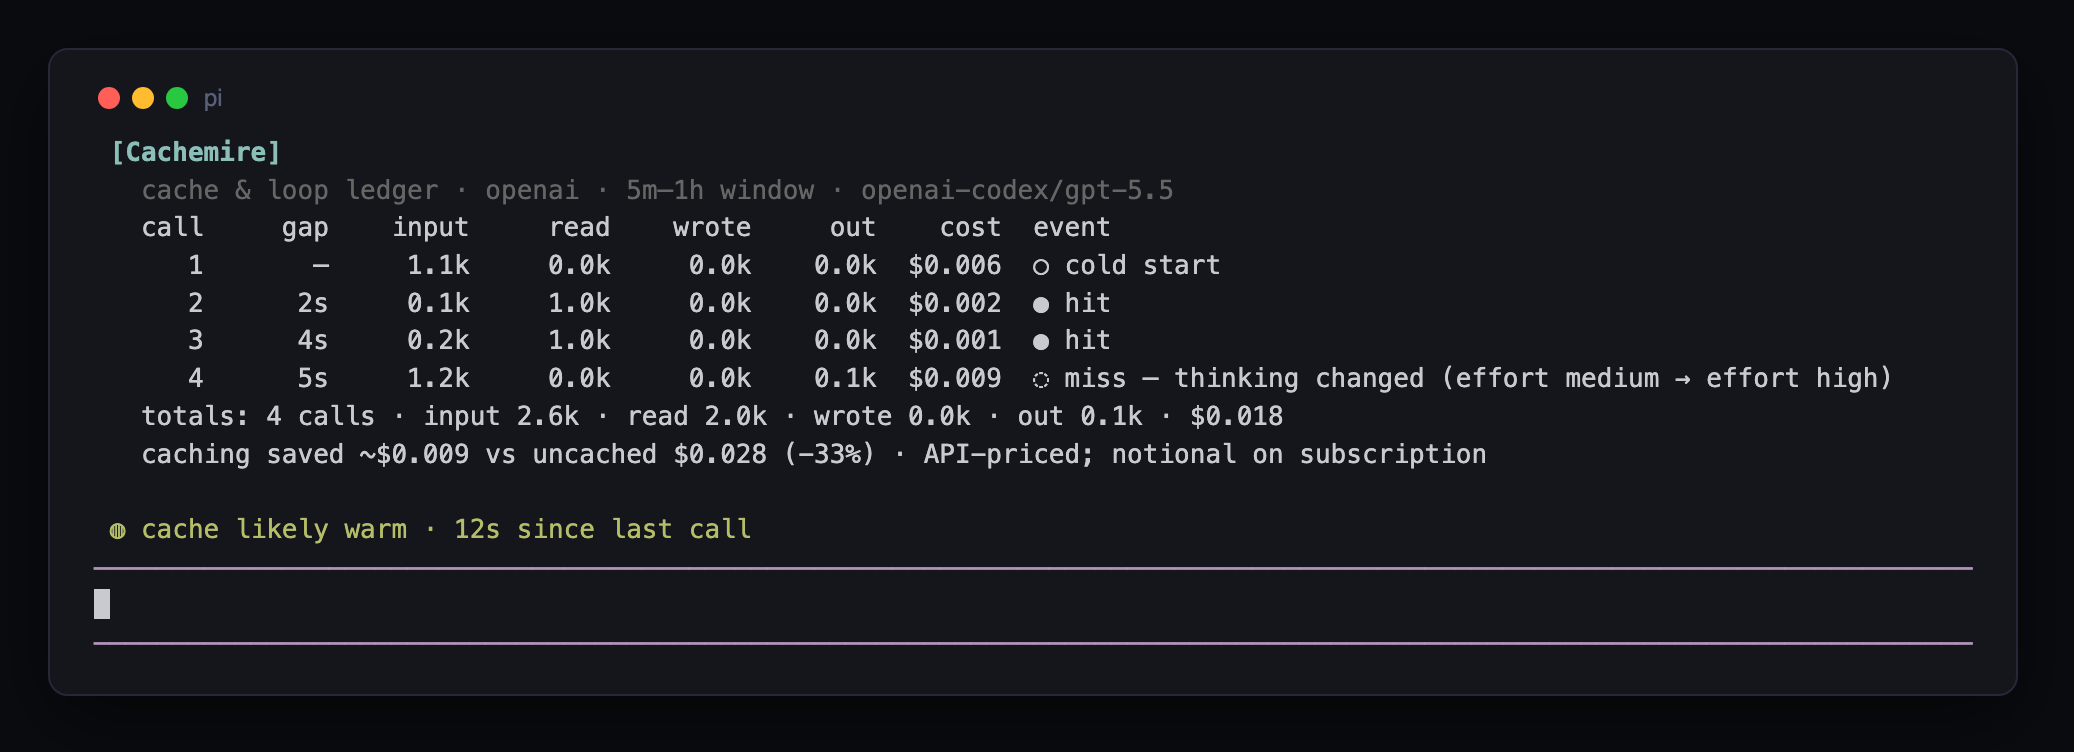
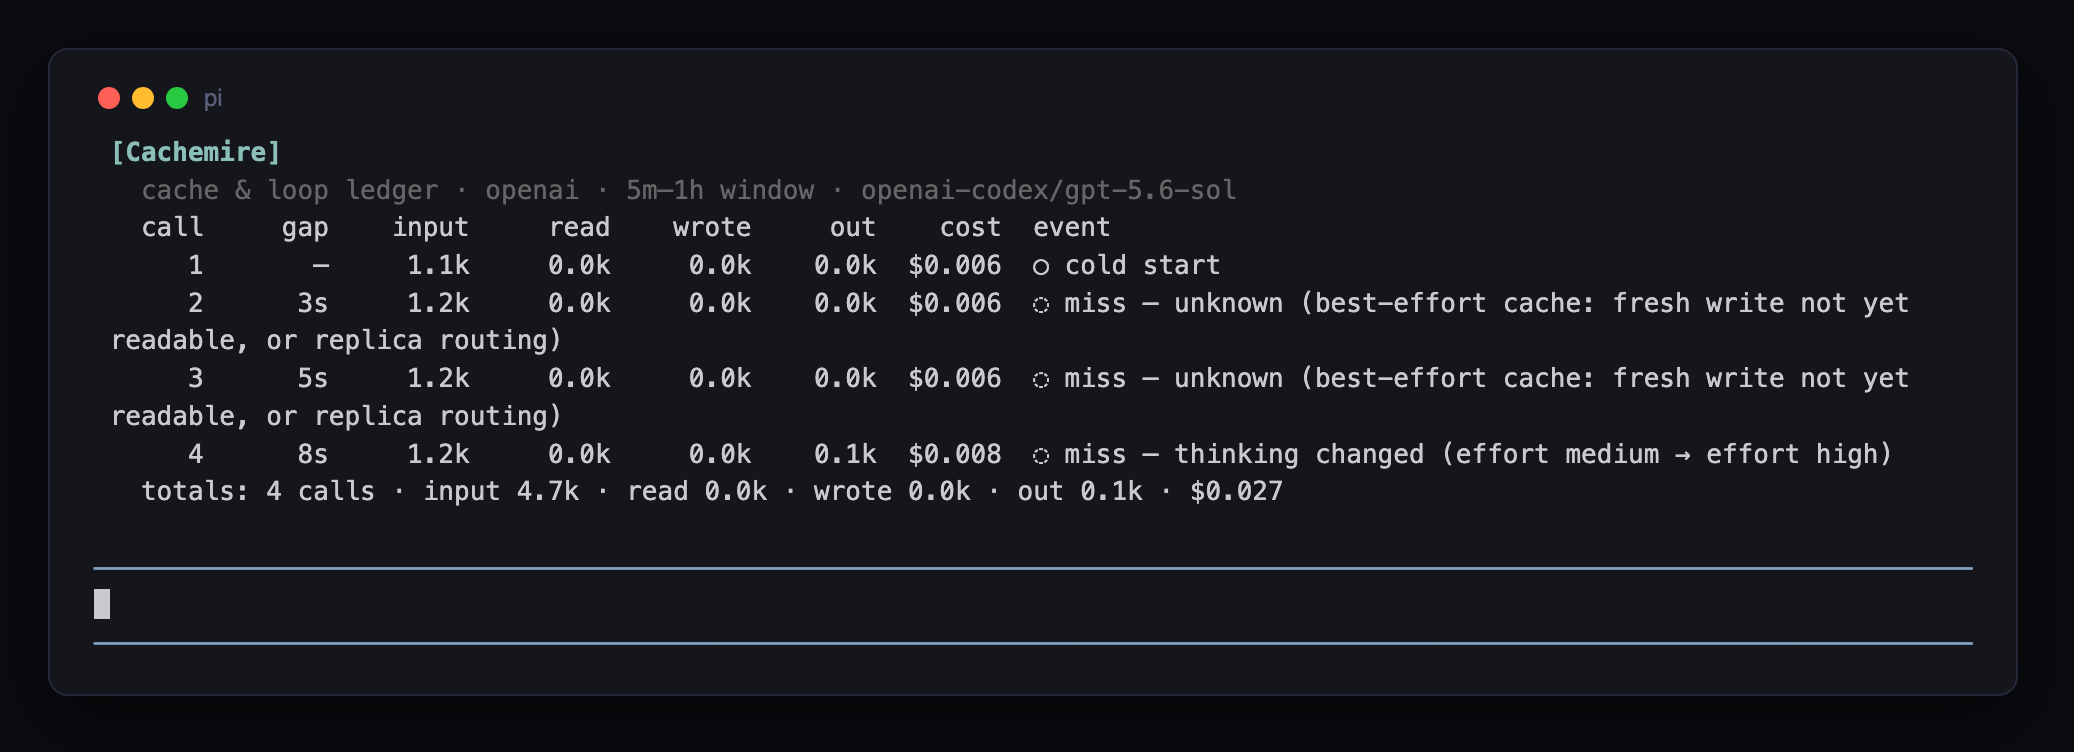
fix(cachemire): align warning clock updates (#74)

Changed region(s): [[0.0617, 0.4894, 0.9566, 0.7646], [0.0617, 0.3976, 0.9257, 0.4894], [0.5554, 0.2447, 0.5863, 0.2753]]

diff --git a/tests/cachemire/economics-and-render.test.ts b/tests/cachemire/economics-and-render.test.ts
@@ -11,10 +11,11 @@ const {
   cacheClock, renderRunSummary, renderMissLine, renderLedger,
   inferAnthropicTtlMs, predictBreak, renderBreakingLine, renderHeldLine,
   windowForProvider, windowLabel, pastWindow, OPENAI_WINDOW, thinkingLevelsDiffer, wireThinkingEffort,
-  nextClockUpdateMs, toneFor,
+  nextClockUpdateMs,
 } = internals;
 
 const CONTRACT_5M = { kind: "contract", ttlMs: 5 * 60_000, source: "observed" } as const;
+const CONTRACT_1H = { kind: "contract", ttlMs: 60 * 60_000, source: "observed" } as const;
 
 // claude-opus-4-8-style rates, USD per Mtok (write carries the 1.25x premium already).
 const RATES = { input: 15, output: 75, cacheRead: 1.5, cacheWrite: 18.75 };
@@ -90,10 +91,6 @@ test("cache clock stays silent until attention is useful", () => {
     cacheClock({ now: 3 * MIN, lastRequestAt: 0, window: OPENAI_WINDOW, thinkingChanged: true }),
     { phase: "idle", text: "" },
   );
-
-  assert.equal(toneFor("closing"), "warning");
-  assert.equal(toneFor("stale"), "warning");
-  assert.equal(toneFor("cold"), "warning");
 });
 
 test("openai band warns near typical eviction without claiming certainty", () => {
@@ -116,6 +113,8 @@ test("cache clock schedules only useful state changes", () => {
   assert.equal(nextClockUpdateMs({ now: MIN, lastRequestAt: 0, window: CONTRACT_5M }), 3 * MIN);
   assert.equal(nextClockUpdateMs({ now: 4 * MIN + 30_000, lastRequestAt: 0, window: CONTRACT_5M }), 1_000);
   assert.equal(nextClockUpdateMs({ now: 6 * MIN, lastRequestAt: 0, window: CONTRACT_5M }), undefined);
+  assert.equal(nextClockUpdateMs({ now: 55 * MIN + 14_000, lastRequestAt: 0, window: CONTRACT_1H }), 1_001);
+  assert.equal(nextClockUpdateMs({ now: 58 * MIN + 29_000, lastRequestAt: 0, window: CONTRACT_1H }), 1_001);
   assert.equal(nextClockUpdateMs({ now: 3 * MIN, lastRequestAt: 0, window: OPENAI_WINDOW }), MIN);
   assert.equal(nextClockUpdateMs({ now: 3 * MIN, lastRequestAt: 0, window: OPENAI_WINDOW, thinkingChanged: true }), MIN);
   assert.equal(nextClockUpdateMs({ now: 3 * MIN, lastRequestAt: 0, window: CONTRACT_5M, thinkingChanged: true }), undefined);

diff --git a/extensions/pi-cachemire/index.ts b/extensions/pi-cachemire/index.ts
@@ -25,7 +25,7 @@ import {
   pastWindow,
   stripCacheControl,
 } from "./classify.ts";
-import { UNKNOWN_WINDOW, cacheClock, nextClockUpdateMs, toneFor, withinWarmHorizon } from "./clock.ts";
+import { UNKNOWN_WINDOW, cacheClock, nextClockUpdateMs, withinWarmHorizon } from "./clock.ts";
 import { activeToolShapes, computeSwitchForecast, type SwitchForecast, type SwitchTarget } from "./forecast.ts";
 import { restoreBranchRecords } from "./ledger.ts";
 import {
@@ -36,7 +36,7 @@ import {
   restoreLineageSnapshots,
 } from "./lineage.ts";
 import { renderBreakingLine, renderHeldLine, renderMissLine, renderRunSummary } from "./render.ts";
-import { clearCacheWidgetTimer, type CacheWidgetRuntime, resetCacheWidget, updateCacheWidget } from "./widget.ts";
+import { clearCacheWidgetTimer, type CacheWidgetRuntime, updateCacheWidget } from "./widget.ts";
 import type {
   BreakPrediction,
   CacheLineageSnapshot,
@@ -558,7 +558,7 @@ export default function piCachemire(pi: ExtensionAPI): void {
     captureTui(ctx.ui, "__pi_cachemire_capture", (tui) => {
       s.tui = tui as CachemireState["tui"];
     });
-    resetCacheWidget(cacheWidget);
+    cacheWidget.lastText = undefined;
     updateWidget();
   });
 
@@ -921,7 +921,6 @@ export const internals = {
   reattachAnchored,
   cacheClock,
   nextClockUpdateMs,
-  toneFor,
   renderRunSummary,
   renderMissLine,
   renderLedger,

diff --git a/extensions/pi-cachemire/clock.ts b/extensions/pi-cachemire/clock.ts
@@ -4,7 +4,6 @@
 // inside its agent context budget.
 
 import { compactCount, formatDuration, formatUsd } from "../_lib/fmt.ts";
-import type { Tone } from "../_lib/style.ts";
 import type { SwitchForecast } from "./forecast.ts";
 import type { CacheWindow } from "./types.ts";
 
@@ -28,7 +27,7 @@ function warningLeadMs(window: Exclude<CacheWindow, { kind: "unknown" }>): numbe
 }
 
 export interface ClockState {
-  phase: "idle" | "fresh" | "closing" | "cold" | "stale" | "fading" | "warm-unknown" | "cold-unknown";
+  phase: "idle" | "closing" | "cold" | "stale" | "fading" | "warm-unknown";
   text: string;
 }
 
@@ -148,14 +147,11 @@ export function nextClockUpdateMs(input: ClockInput): number | undefined {
   if (window.kind === "contract") {
     const remaining = window.ttlMs - since;
     if (remaining <= 0) return undefined;
-    return Math.min(remaining, remaining > 90_000 ? 15_000 : 1_000);
+    if (remaining <= 90_000) return Math.min(remaining, 1_000);
+    return (remaining % 15_000) + 1;
   }
 
   if (since < window.softMs) return Math.min(window.softMs - since, 1_000);
   if (since < window.hardMs) return window.hardMs - since;
   return undefined;
-}
-
-export function toneFor(phase: ClockState["phase"]): Tone {
-  return phase === "idle" ? "dim" : "warning";
 }

diff --git a/extensions/pi-cachemire/widget.ts b/extensions/pi-cachemire/widget.ts
@@ -1,5 +1,5 @@
 import type { ExtensionUIContext } from "@earendil-works/pi-coding-agent";
-import { type ClockInput, cacheClock, nextClockUpdateMs, toneFor } from "./clock.ts";
+import { type ClockInput, cacheClock, nextClockUpdateMs } from "./clock.ts";
 import type { Tone } from "../_lib/style.ts";
 
 export interface CacheWidgetRuntime {
@@ -19,16 +19,11 @@ export function clearCacheWidgetTimer(runtime: CacheWidgetRuntime): void {
   runtime.timer = undefined;
 }
 
-export function resetCacheWidget(runtime: CacheWidgetRuntime): void {
-  clearCacheWidgetTimer(runtime);
-  runtime.lastText = undefined;
-}
-
 export function updateCacheWidget(runtime: CacheWidgetRuntime, input: CacheWidgetInput): void {
   clearCacheWidgetTimer(runtime);
   if (!input.ui) return;
   const clock = input.enabled ? cacheClock(input.clock) : { phase: "idle" as const, text: "" };
-  const text = clock.phase === "idle" ? "" : input.renderLine(toneFor(clock.phase), clock.text);
+  const text = clock.phase === "idle" ? "" : input.renderLine("warning", clock.text);
   if (text !== runtime.lastText) {
     runtime.lastText = text;
     input.ui.setWidget("pi-cachemire", text === "" ? undefined : [text]);

diff --git a/scripts/dev/screenshots/README.md b/scripts/dev/screenshots/README.md
@@ -18,7 +18,8 @@ inspect exactly what was on screen. Pass `--keep` to leave the tmux session and 
 HOME in place for debugging (attach with `tmux -L pogshots attach -t pog-shots-<pid>`).
 
 Requirements: `pi` on PATH, `tmux`, Google Chrome (headless), `python3` with PIL,
-`~/.pi/agent/auth.json` (copied into the fixture; live scenarios need working credentials).
+`~/.pi/agent/auth.json` (copied into the fixture; live scenarios need working credentials,
+including Anthropic for Cachemire's no-call model switch).
 
 ## How it works
 
@@ -97,10 +98,10 @@ the full dump is a wall and one tree gives the sense.
 ### cachemire: fully live (costs money)
 
 Cache behaviour can't be honestly mocked, so this scenario makes **real model calls**:
-two tiny turns against a small fixture README, then `/cache`. It runs on
-`openai-codex/gpt-5.6-sol`; cachemire degrades honestly to OpenAI's band-cache wording,
-which also demonstrates the cross-provider story. Expect the table to vary run to run:
-cold start, hit, or an occasional honestly attributed miss are all authentic.
+three tiny turns against a small fixture README, then `/cache`. It uses
+`openai-codex/gpt-5.6-sol`, switches to Anthropic without calling it to capture the
+model-switch warning, then switches back for the OpenAI ledger. Expect the table to vary:
+cold start, hit, or an honestly attributed miss are all authentic.
 
 ### meantime: fully live (costs money)
 

diff --git a/CHANGELOG.md b/CHANGELOG.md
@@ -7,7 +7,8 @@
   expiry; OpenAI's best-effort window uses hedged warnings. Stale and invalidated states
   use warning emphasis, and compaction says only that changed history may be re-written.
   The widget now sleeps until the next warning boundary instead of waking every second
-  for the whole session. Fixes #25.
+  for the whole session, with coarse countdown wakes aligned to their displayed steps.
+  Fixes #25.
 - **Contextimate: recognise the Claude 4.7+ tokenizer across routes.** Fable 5,
   Opus 5 and explicit Claude 4.7+ models relayed through Radius or OpenRouter now
   use the same measured profile as Claude 4.7/4.8. Bedrock retains its own payload
